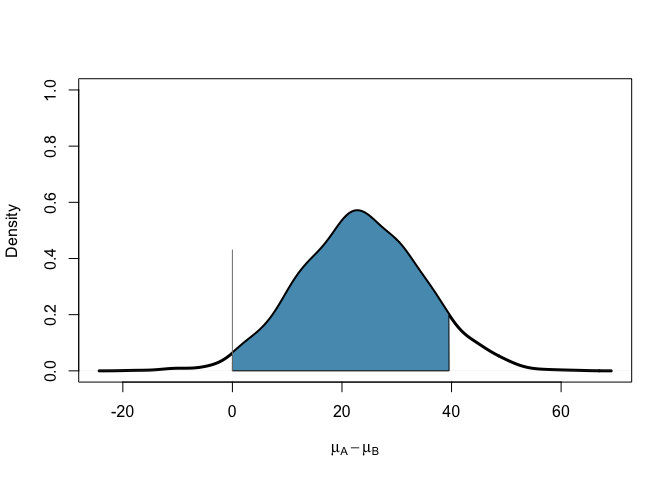
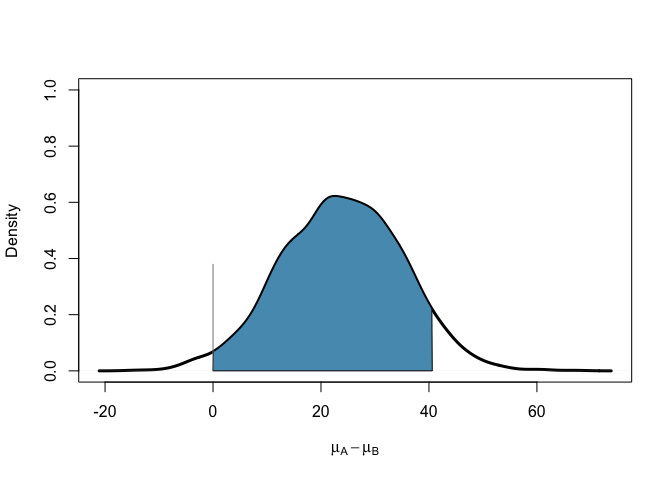
knit files

diff --git a/04_bayesian_statistics/week_03/4.4.3_comparing_two_independent_means_hypothesis_testing/R/4.4.3_comparing_two_independent_means_hypothese_testing.md b/04_bayesian_statistics/week_03/4.4.3_comparing_two_independent_means_hypothesis_testing/R/4.4.3_comparing_two_independent_means_hypothese_testing.md
@@ -25,9 +25,8 @@ Run the MCMC sampler using R functions (this does not require `jags`. This uses 
 
 ``` r
 set.seed(5)
-out = BFt.test(y = c(52.1, 27.1), sd=c(45.1, 26.4), n=c(22,22), 
-               method="intrinsic", suff=T, jags=FALSE,
-               nsim=10000, thin=5, burn=1000,
+out = BFt.test(y = c(52.1, 27.1), grp=NULL, sd=c(45.1, 26.4), n=c(22,22),
+               method="intrinsic",  suff=T,jags=F,nsim=10000,
                colHPD=myblue, main="", 
                xlab=expression(mu[A] - mu[B]), lwd=3, plot=T)
 ```
@@ -48,8 +47,8 @@ From the output we can extract the 95% HPD interval for the difference of the me
 out$ci
 ```
 
-    ##      lower    upper
-    ## var1     0 41.44098
+    ##            lower    upper
+    ## var1 -0.03076586 41.67141
     ## attr(,"Probability")
     ## [1] 0.9499971
 
@@ -61,15 +60,33 @@ out$post.prob
 
 This is based on simulating from the posterior distribution so the credible interval may change slighly if different random seeds are used or if more simulations are used.
 
+We can also compute the credible interval conditional on H2 from the output.
+
+``` r
+HPDinterval(as.mcmc(out$diff[out$diff != 0]))
+```
+
+    ##           lower    upper
+    ## var1 -0.5209512 45.83315
+    ## attr(,"Probability")
+    ## [1] 0.95
+
+Remember this is calculated assuming that the means are different and so does not include the "draws" from the posterior under H1 that the means are exactly zero.
+
 ### Using JAGS
 
 If you have installed `jags` on your computer, then the following option using `jags=TRUE` is much faster, although the estimates of the posterior probability are subject to Monte Carlo variation. To reduce that you may need to use a larger number of simulations. If you have not installed `jags` comment out the chunk below.
 
 ``` r
 set.seed(5)
-out = BFt.test(y = c(52.1, 27.1), sd=c(45.1, 26.4), n=c(22,22), 
-               method="intrinsic", colHPD=myblue, nsim=1000000,
-               suff=T, jags=TRUE, main="", 
+#out = BFt.test(y = c(52.1, 27.1), sd=c(45.1, 26.4), n=c(22,22), 
+#               method="intrinsic", colHPD=myblue, nsim=1000000,
+#               suff=T, jags=TRUE, main="", 
+#               xlab=expression(mu[A] - mu[B]), lwd=3, plot=T)
+
+out.jags = BFt.test(y = y, grp=NULL, sd=sd, n=n,
+               method="intrinsic",  suff=T,jags=TRUE, nsim=100000,
+               colHPD=myblue, main="", 
                xlab=expression(mu[A] - mu[B]), lwd=3, plot=T)
 ```
 
@@ -105,18 +122,27 @@ out = BFt.test(y = c(52.1, 27.1), sd=c(45.1, 26.4), n=c(22,22),
 Estimates from jags
 
 ``` r
-out$ci
+out.jags$ci
 ```
 
     ##      lower    upper
-    ## var1     0 39.54934
+    ## var1     0 40.61229
     ## attr(,"Probability")
     ## [1] 0.95
 
 ``` r
-out$post.prob
+out.jags$post.prob
 ```
 
-    ## [1] 0.43
+    ## [1] 0.379
 
 These will not agree completely with the estimates above as `jags` does not allow the limiting "improper" prior distributions that are used in the intrinsic prior.
+
+``` r
+HPDinterval(as.mcmc(out.jags$diff[out.jags$diff != 0]))
+```
+
+    ##         lower   upper
+    ## var1 2.014207 44.8992
+    ## attr(,"Probability")
+    ## [1] 0.9500805
